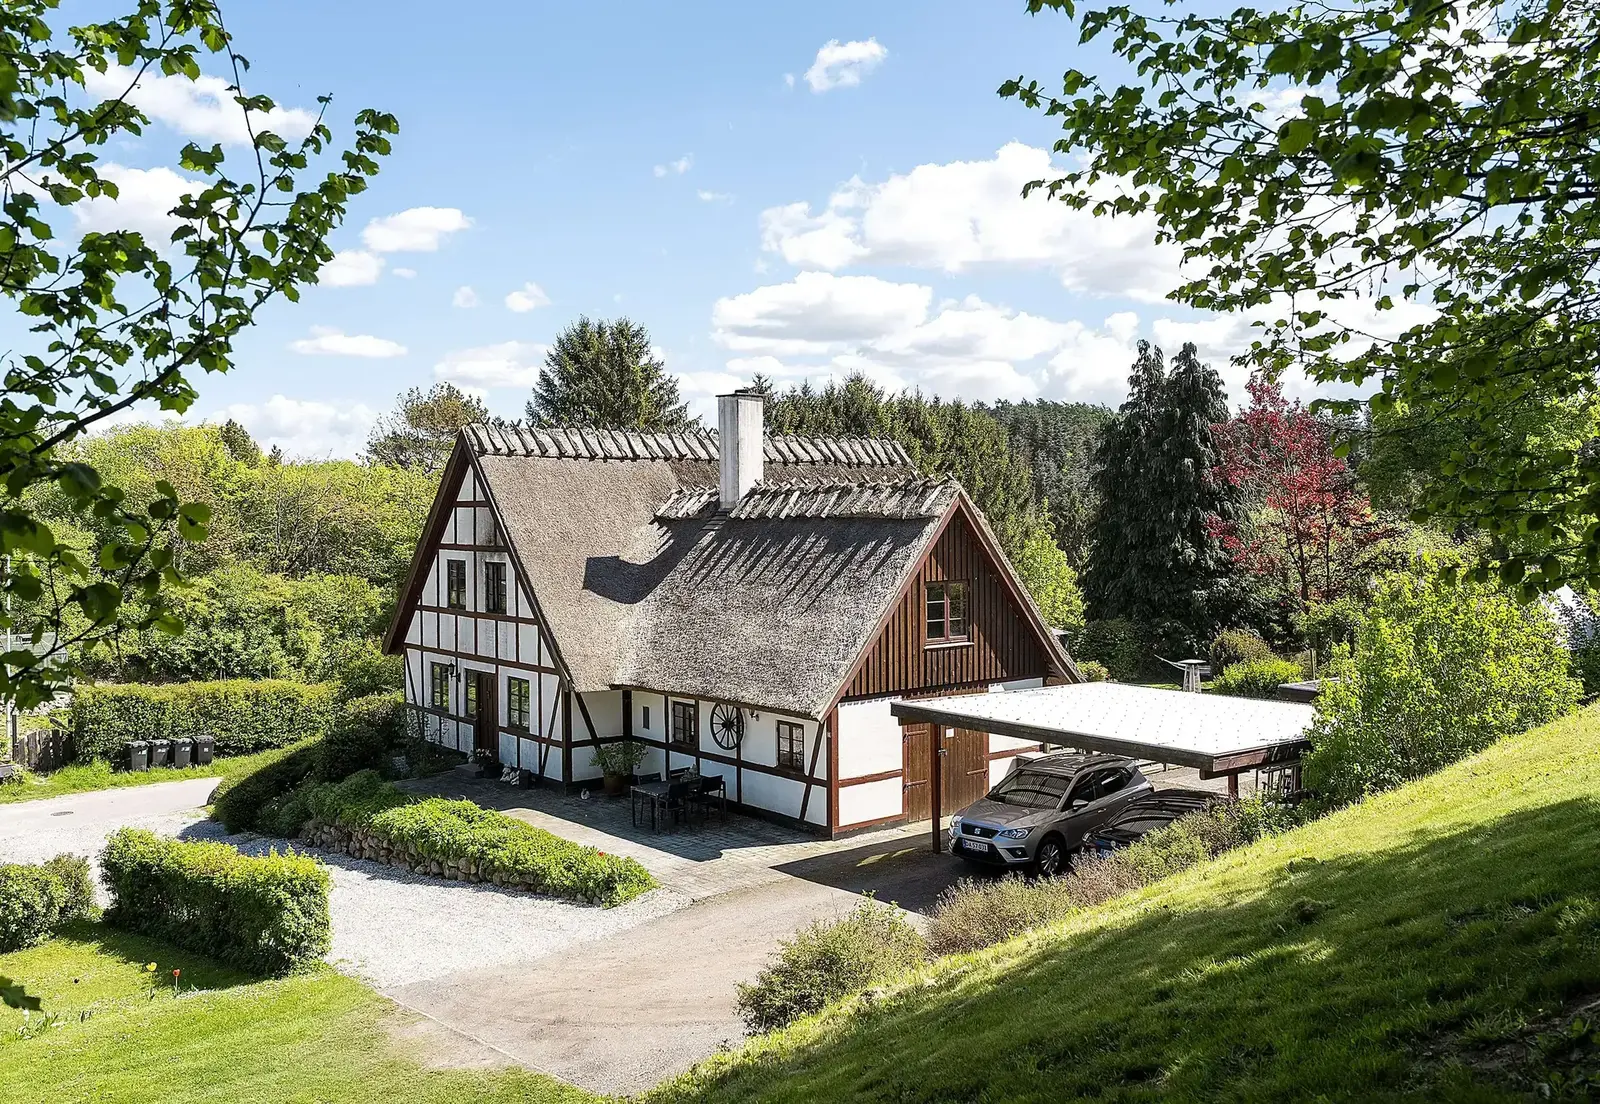
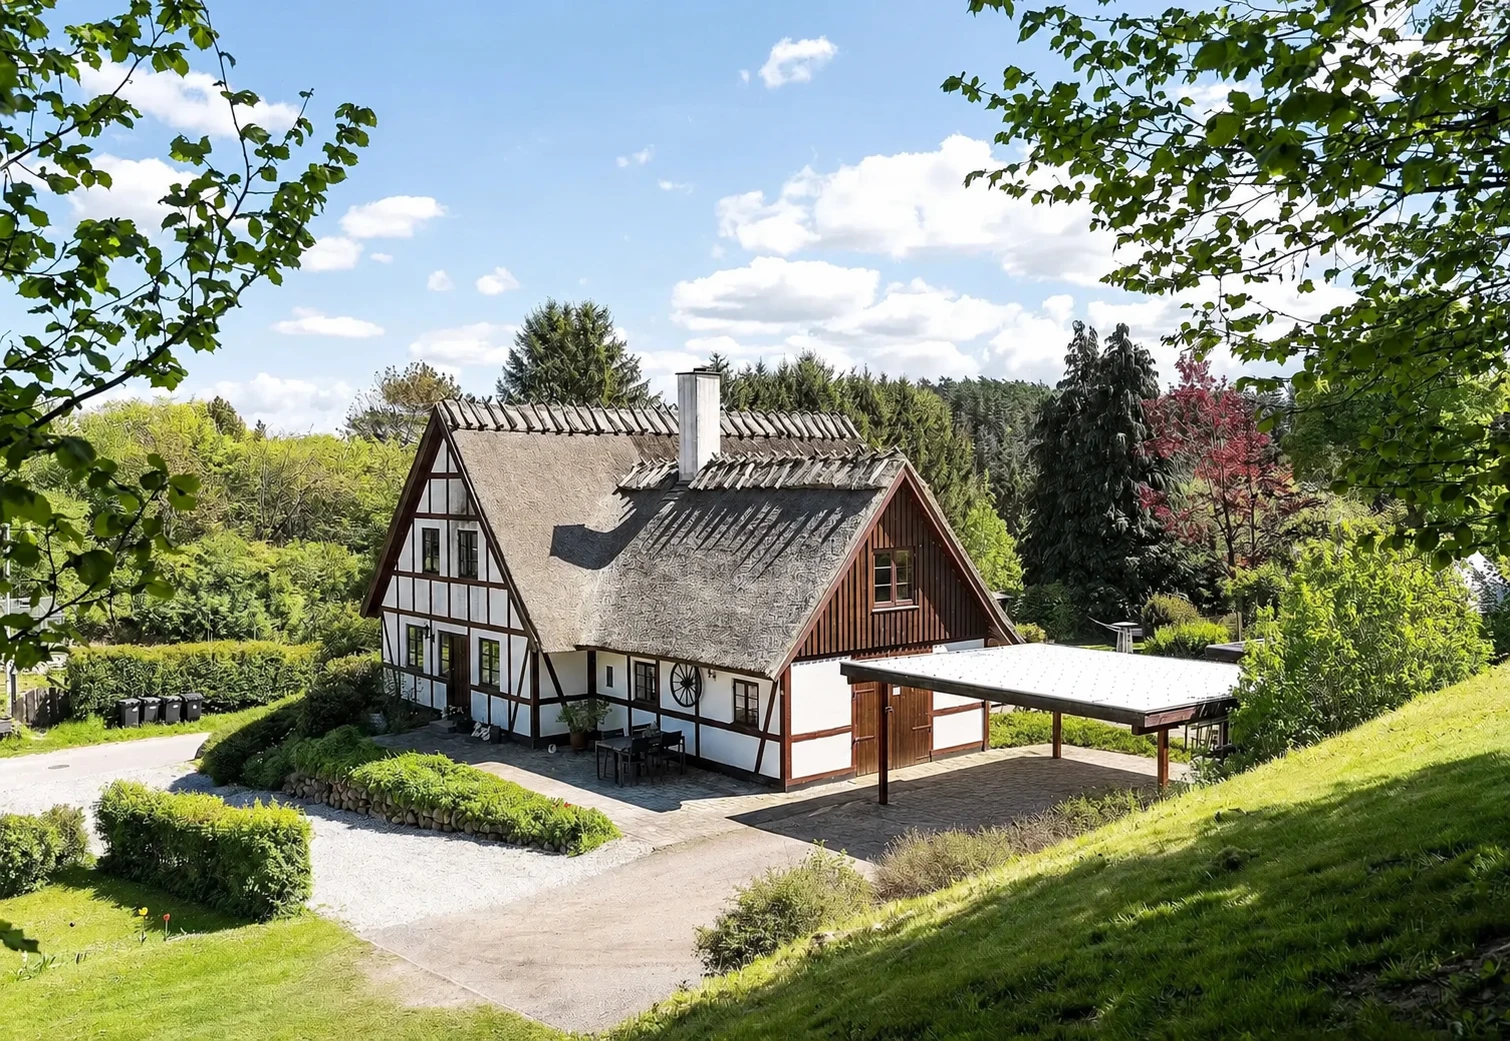
Brug WebP til det redigerede forsidebillede

diff --git a/index.html b/index.html
@@ -30,7 +30,7 @@
 
   <main id="top">
     <section class="hero">
-      <img src="assets/forside/house-hero.jpg" alt="Bindingsværkshuset omgivet af grøn natur">
+      <img src="assets/forside/house-hero.webp" alt="Bindingsværkshuset omgivet af grøn natur">
       <div class="hero-shade"></div>
       <div class="hero-content">
         <p class="eyebrow light">Et hjem med plads til mere</p>
